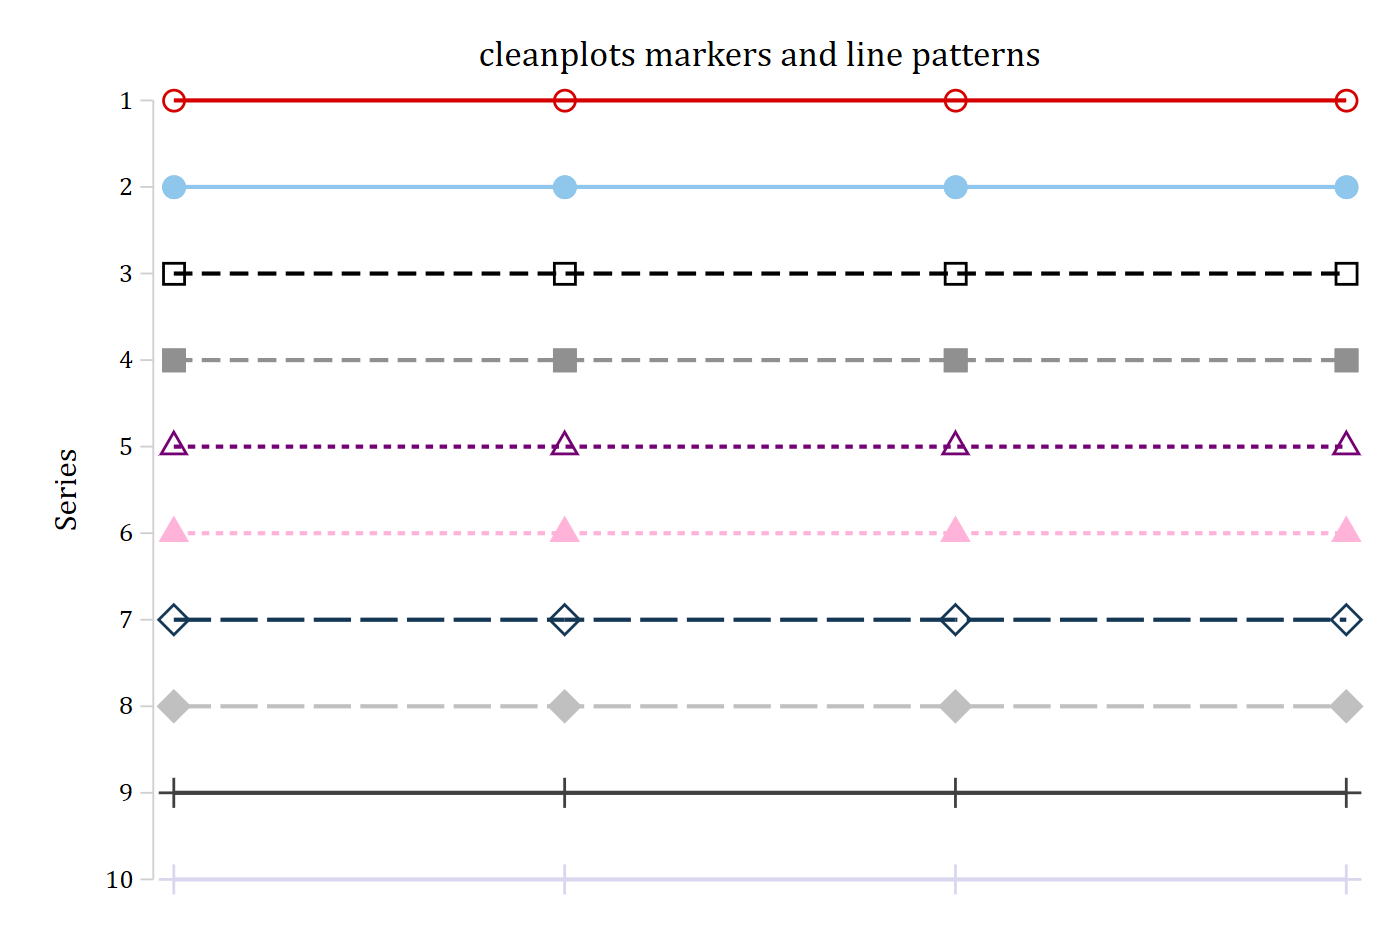
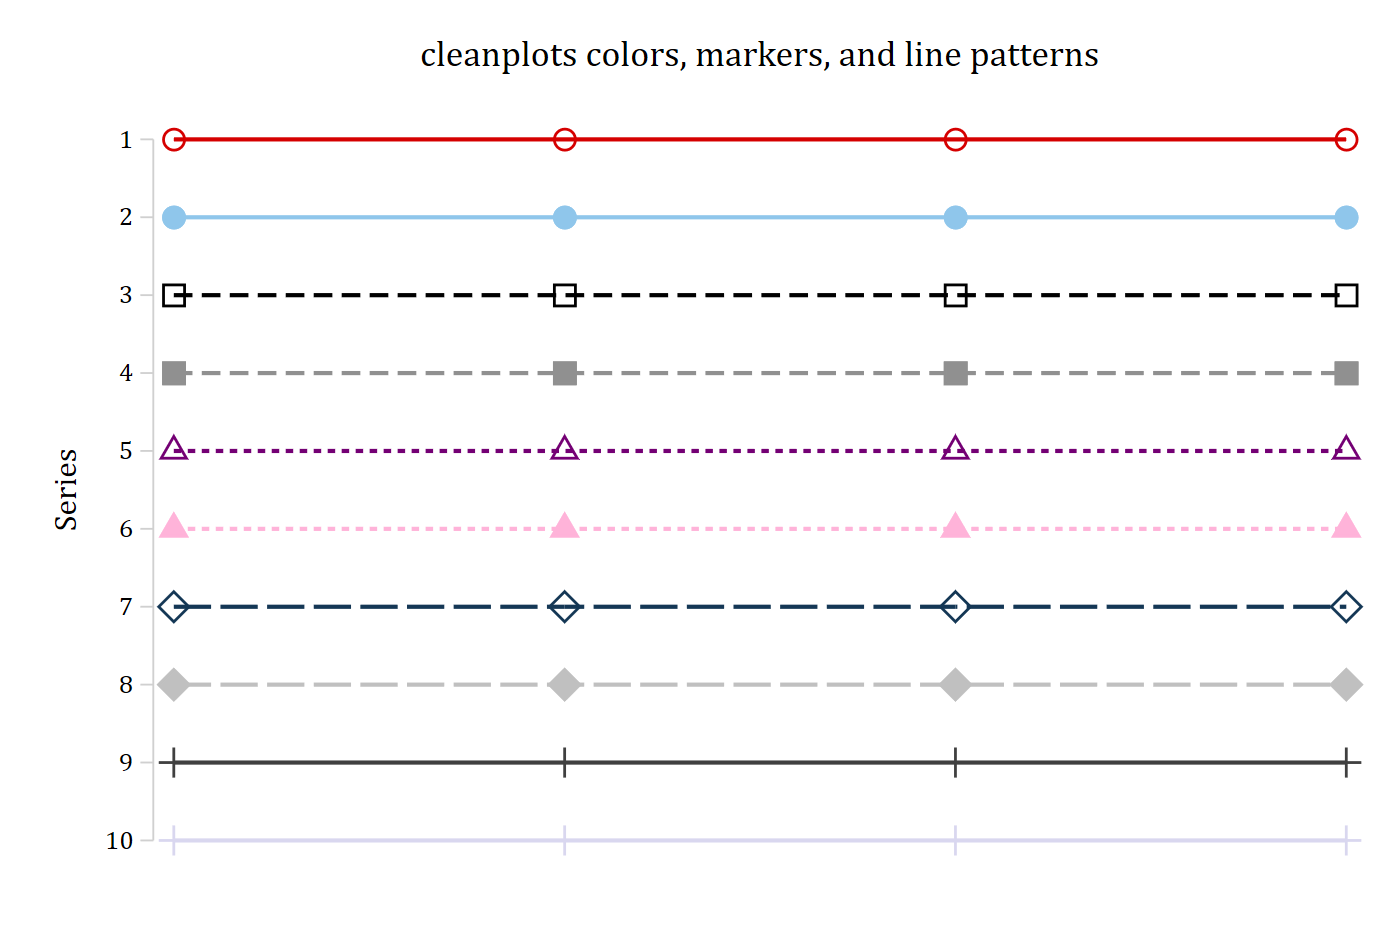
cleanplots: pad and retitle the series graph

diff --git a/docs/software/cleanplots/index.html b/docs/software/cleanplots/index.html
@@ -1333,9 +1333,9 @@ pre > code.sourceCode > span > a:first-child::before { text-decoration: underlin
 <span id="cb10-3"><a href="#cb10-3" aria-hidden="true" tabindex="-1"></a>    <span class="kw">generate</span> y<span class="ot">`i'</span> = <span class="ot">`i'</span></span>
 <span id="cb10-4"><a href="#cb10-4" aria-hidden="true" tabindex="-1"></a>}</span>
 <span id="cb10-5"><a href="#cb10-5" aria-hidden="true" tabindex="-1"></a><span class="kw">twoway</span> connected y1-y10 x, msize(vlarge ...) lwid(<span class="bn">medthick</span> ...) <span class="co">///</span></span>
-<span id="cb10-6"><a href="#cb10-6" aria-hidden="true" tabindex="-1"></a>    <span class="bn">yscale</span>(<span class="fu">reverse</span>) <span class="kw">ylabel</span>(1/10, <span class="bn">nogrid</span>) <span class="bn">ytitle</span>(<span class="st">"Series"</span>) <span class="co">///</span></span>
+<span id="cb10-6"><a href="#cb10-6" aria-hidden="true" tabindex="-1"></a>    <span class="bn">yscale</span>(<span class="fu">reverse</span> <span class="kw">range</span>(0.5 10.5)) <span class="kw">ylabel</span>(1/10, <span class="bn">nogrid</span>) <span class="bn">ytitle</span>(<span class="st">"Series"</span>) <span class="co">///</span></span>
 <span id="cb10-7"><a href="#cb10-7" aria-hidden="true" tabindex="-1"></a>    <span class="bn">xscale</span>(<span class="kw">off</span>) <span class="kw">xlabel</span>(, <span class="bn">nogrid</span>) <span class="bn">legend</span>(<span class="kw">off</span>) <span class="co">///</span></span>
-<span id="cb10-8"><a href="#cb10-8" aria-hidden="true" tabindex="-1"></a>    <span class="bn">title</span>(<span class="st">"cleanplots markers and line patterns"</span>)</span></code></pre></div><button title="Copy to Clipboard" class="code-copy-button"><i class="bi"></i></button></div>
+<span id="cb10-8"><a href="#cb10-8" aria-hidden="true" tabindex="-1"></a>    <span class="bn">title</span>(<span class="st">"cleanplots colors, markers, and line patterns"</span>)</span></code></pre></div><button title="Copy to Clipboard" class="code-copy-button"><i class="bi"></i></button></div>
 </div>
 <p><img src="fig/palette-series.png" class="img-fluid" style="width:85.0%" alt="Ten horizontal lines, one per series, each drawn in its cleanplots color with its marker symbol and line pattern."></p>
 </section>
